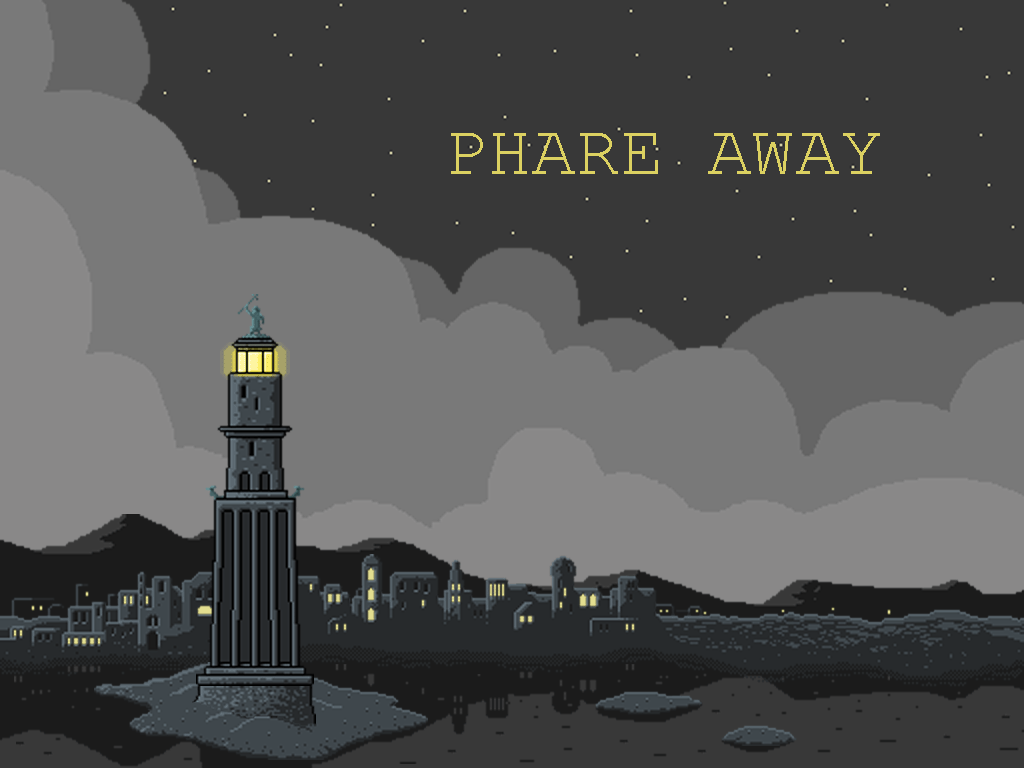
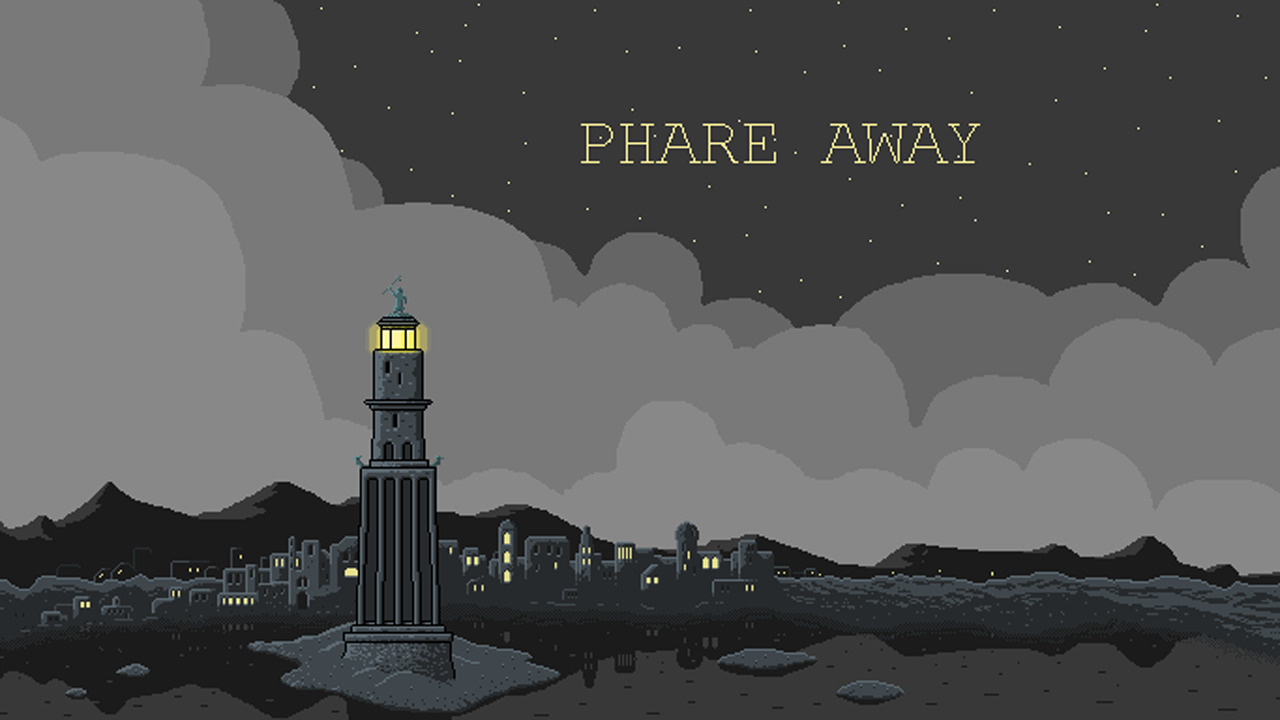
MAJ menus

diff --git a/Project/Src/Game/Levels/LevelMenu.cs b/Project/Src/Game/Levels/LevelMenu.cs
@@ -35,46 +35,46 @@ namespace PhareAway
             _mDefaultCam.Position = new Vector2(0.0f, 0.0f);
 
             _mBgMenu = SceneManager.Singleton.GetNewSprite("Graphics/Backgrounds/bg_Menu", _mContent, _mSceneMenu);
-            _mBgMenu.mPosition = new Vector2(128.0f, 0.0f);
+            _mBgMenu.mPosition = new Vector2(0.0f, 0.0f);
             _mBgMenu.mOrigin = new Vector2(0.0f, 0.0f);
 
             _mMenuSprite = new Sprite[4];
 
             _mMenuSprite[0] = SceneManager.Singleton.GetNewSprite("Graphics/Sprites/Menu/NewGame_0", _mContent, _mSceneMenu);
-            _mMenuSprite[0].mPosition = new Vector2(1000.0f, 260.0f);
+            _mMenuSprite[0].mPosition = new Vector2(970.0f, 260.0f);
             _mMenuSprite[0].mOrigin = new Vector2(_mMenuSprite[0].Width, _mMenuSprite[0].Height);
 
             _mMenuSprite[1] = SceneManager.Singleton.GetNewSprite("Graphics/Sprites/Menu/HowToPlay_0", _mContent, _mSceneMenu);
-            _mMenuSprite[1].mPosition = new Vector2(1000.0f, 310.0f);
+            _mMenuSprite[1].mPosition = new Vector2(970.0f, 310.0f);
             _mMenuSprite[1].mOrigin = new Vector2(_mMenuSprite[1].Width, _mMenuSprite[1].Height);
 
             _mMenuSprite[2] = SceneManager.Singleton.GetNewSprite("Graphics/Sprites/Menu/Credits_0", _mContent, _mSceneMenu);
-            _mMenuSprite[2].mPosition = new Vector2(1000.0f, 346.0f);
+            _mMenuSprite[2].mPosition = new Vector2(970.0f, 346.0f);
             _mMenuSprite[2].mOrigin = new Vector2(_mMenuSprite[2].Width, _mMenuSprite[2].Height);
 
             _mMenuSprite[3] = SceneManager.Singleton.GetNewSprite("Graphics/Sprites/Menu/Exit_0", _mContent, _mSceneMenu);
-            _mMenuSprite[3].mPosition = new Vector2(1000.0f, 386.0f);
+            _mMenuSprite[3].mPosition = new Vector2(970.0f, 386.0f);
             _mMenuSprite[3].mOrigin = new Vector2(_mMenuSprite[3].Width, _mMenuSprite[3].Height);
 
             _mMenuSpriteSelect = new Sprite[4];
 
             _mMenuSpriteSelect[0] = SceneManager.Singleton.GetNewSprite("Graphics/Sprites/Menu/NewGame_1", _mContent, _mSceneMenu);
-            _mMenuSpriteSelect[0].mPosition = new Vector2(1000.0f, 260.0f);
+            _mMenuSpriteSelect[0].mPosition = new Vector2(970.0f, 260.0f);
             _mMenuSpriteSelect[0].mOrigin = new Vector2(_mMenuSpriteSelect[0].Width, _mMenuSpriteSelect[0].Height);
             _mMenuSpriteSelect[0].mVisible = false;
 
             _mMenuSpriteSelect[1] = SceneManager.Singleton.GetNewSprite("Graphics/Sprites/Menu/HowToPlay_1", _mContent, _mSceneMenu);
-            _mMenuSpriteSelect[1].mPosition = new Vector2(1000.0f, 310.0f);
+            _mMenuSpriteSelect[1].mPosition = new Vector2(970.0f, 310.0f);
             _mMenuSpriteSelect[1].mOrigin = new Vector2(_mMenuSpriteSelect[1].Width, _mMenuSpriteSelect[1].Height);
             _mMenuSpriteSelect[1].mVisible = false;
 
             _mMenuSpriteSelect[2] = SceneManager.Singleton.GetNewSprite("Graphics/Sprites/Menu/Credits_1", _mContent, _mSceneMenu);
-            _mMenuSpriteSelect[2].mPosition = new Vector2(1000.0f, 346.0f);
+            _mMenuSpriteSelect[2].mPosition = new Vector2(970.0f, 346.0f);
             _mMenuSpriteSelect[2].mOrigin = new Vector2(_mMenuSpriteSelect[2].Width, _mMenuSpriteSelect[2].Height);
             _mMenuSpriteSelect[2].mVisible = false;
 
             _mMenuSpriteSelect[3] = SceneManager.Singleton.GetNewSprite("Graphics/Sprites/Menu/Exit_1", _mContent, _mSceneMenu);
-            _mMenuSpriteSelect[3].mPosition = new Vector2(1000.0f, 386.0f);
+            _mMenuSpriteSelect[3].mPosition = new Vector2(970.0f, 386.0f);
             _mMenuSpriteSelect[3].mOrigin = new Vector2(_mMenuSpriteSelect[3].Width, _mMenuSpriteSelect[3].Height);
             _mMenuSpriteSelect[3].mVisible = false;
         }
@@ -84,7 +84,7 @@ namespace PhareAway
             _mMenuSprite[_mIDChoice].mVisible = false;
             _mMenuSpriteSelect[_mIDChoice].mVisible = true;
 
-            if (InputManager.Singleton.IsKeyJustPressed(Keys.S))
+            if (InputManager.Singleton.IsKeyJustPressed(Keys.Down))
             {
                 if (_mIDChoice < 3)
                 {
@@ -93,7 +93,7 @@ namespace PhareAway
                     _mIDChoice++;
                 }
             }
-            if (InputManager.Singleton.IsKeyJustPressed(Keys.Z))
+            if (InputManager.Singleton.IsKeyJustPressed(Keys.Up))
             {
                 if (_mIDChoice > 0)
                 {

diff --git a/Project/Src/Game/Levels/LevelLogos.cs b/Project/Src/Game/Levels/LevelLogos.cs
@@ -19,7 +19,6 @@ namespace PhareAway
         private UInt32 _mSceneLogos;
         private Camera _mDefaultCam;
 
-        private float  _mStartTime;
         private float  _mLogoTime = 3.0f;
 
         public LevelLogos(PhareAwayGame _Game, ContentManager _Content) : base(_Game, _Content)
@@ -43,7 +42,7 @@ namespace PhareAway
             _mLogo2.mOrigin = new Vector2(0.0f, 0.0f);
             _mLogo2.mVisible = false;
 
-            _mStartTime = Timer.Singleton.Seconds;
+            Timer.Singleton.Initialize();
 
         }
 
@@ -55,11 +54,10 @@ namespace PhareAway
                 ChangeLogo();
             }
 
-            float time = Timer.Singleton.Seconds;
-            if(time - _mStartTime > _mLogoTime)
+            if(Timer.Singleton.Seconds > _mLogoTime)
             {
                 ChangeLogo();
-                _mStartTime = time;
+                Timer.Singleton.Initialize();
             }
 
         }
